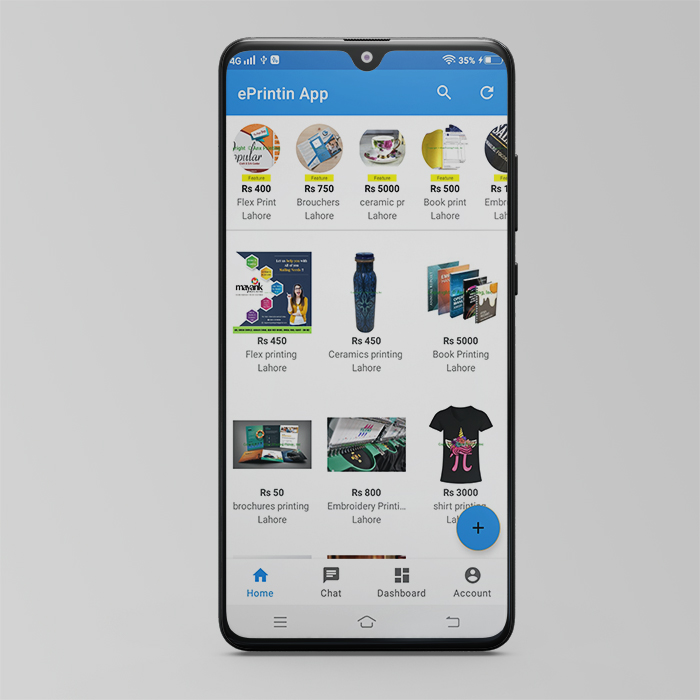
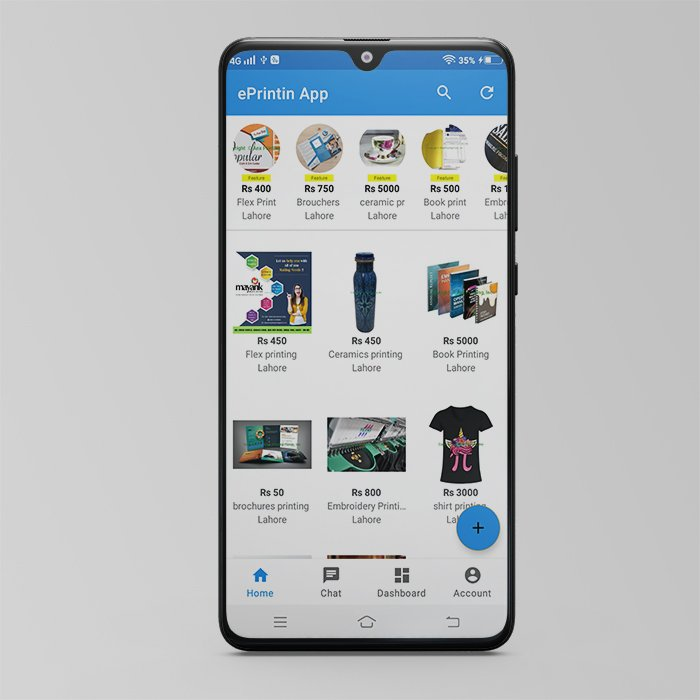
UPdated the about of every project and compressed the images for better speed

diff --git a/src/components/root.js b/src/components/root.js
@@ -20,7 +20,7 @@ class Root extends Component {
           "An innovative fitness app with alot of exciting features to make help and fitness easy, excuse free and fun.",
         imageName: "tile.jpg", // this image is address is of the project thumbnail
         about:
-          "Lizards are a widespread group of squamate reptiles, with over 6,000 species, ranging across all continents except Antarctica Lizards are a widespread group of squamate reptiles, with over 6,000 species, ranging across all continents except Antarctica Lizards are a widespread group of squamate reptiles, with over 6,000 species, ranging across all continents except Antarctica",
+          "This app represents perhaps the ultimate in-pocket personal trainer. Whether you’re looking to lose weight, tone your thighs, lift more weights, or become a faster runner. The application will help you with thousands of free workouts VIDEOS coached by real-life personal trainers. This app has all the tools you need to get fit—a massive library of instructional training videos, live streaming personal trainers, fitness routine planning, and tracking tools that help you target your workouts and keep easy track of your progress. They’ll walk you through each exercise with timed step-by-step audio, photo, and video, with—bonus—offers. Technologies Used: Kotlin, Java Android Studio, Network Programming, Android components, Bluetooth, RESTful Web Services, Push Notifications.",
         aboutImage: "about.png",
       },
       {
@@ -29,7 +29,7 @@ class Root extends Component {
           "An online feature rich printing app which provides platform to their users to print solutions for their business branding needs.",
         imageName: "tile.jpg",
         about:
-          "Lizards are a widespread group of squamate reptiles, with over 6,000 species, ranging across all continents except Antarctica Lizards are a widespread group of squamate reptiles, with over 6,000 species, ranging across all continents except Antarctica Lizards are a widespread group of squamate reptiles, with over 6,000 species, ranging across all continents except Antarctica",
+          "ePrintin is an application that allows different vendors to register over the app and provide the goods and services regarding printing to their consumers. On the other side user can search by city name and categories to see different kinds of goods, services, and purchase through the app. User have an amazing option to chat with the vendor via an In-app chat system and navigate to vendor store location with google maps if they have physical one. Technologies Used: Android Studio, Java, Firebase, Offline capabilities, Push Notifications, Google maps, Stripe Payment gateway.",
         aboutImage: "about.png",
       },
       {
@@ -38,14 +38,14 @@ class Root extends Component {
           "Check the number of confirmed cases, deaths and recoveries for each country.",
         imageName: "tile.jpg",
         about:
-          "Lizards are a widespread group of squamate reptiles, with over 6,000 species, ranging across all continents except Antarctica Lizards are a widespread group of squamate reptiles, with over 6,000 species, ranging across all continents except Antarctica Lizards are a widespread group of squamate reptiles, with over 6,000 species, ranging across all continents except Antarctica",
+          "Covid-19 Tracker allows you to track the spread of the virus and detailed statistics for each country and the graph globally. Search for any country to see the number of confirmed cases, deaths, and recoveries. This is the first app I built using Kotlin and Navigation Components. Using Extention functions, Clean and compact syntax has been very interesting and fun to use. While I started off with the idea of this being a really small app to get familiar with building apps with Kotlin, I soon started adding more and more features as I’m sure most devs have experienced this. Technologies Used: Android Studio, Kotlin, Navigation Components, Network Programming, and Restful APIs.",
         aboutImage: "about.png",
       },
     ],
   };
   render() {
     return (
-      <BrowserRouter>
+      <BrowserRouter basename={process.env.PUBLIC_URL}>
         <div>
           <Switch>
             <Route
